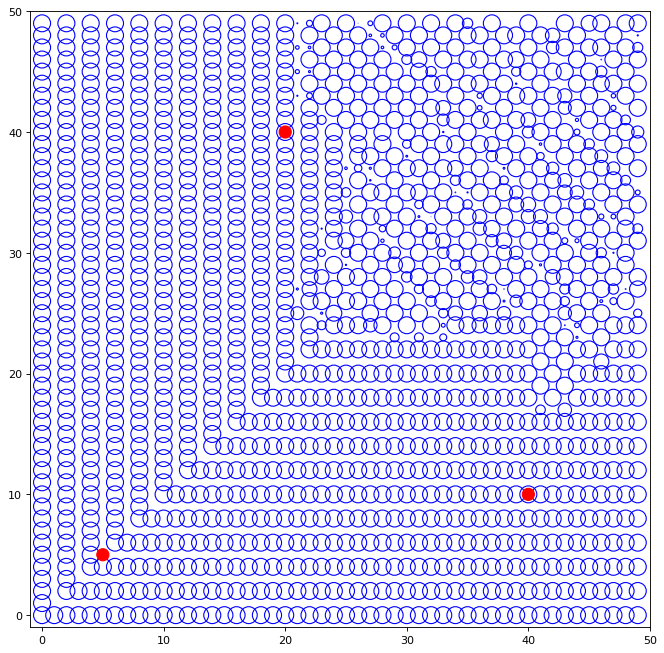
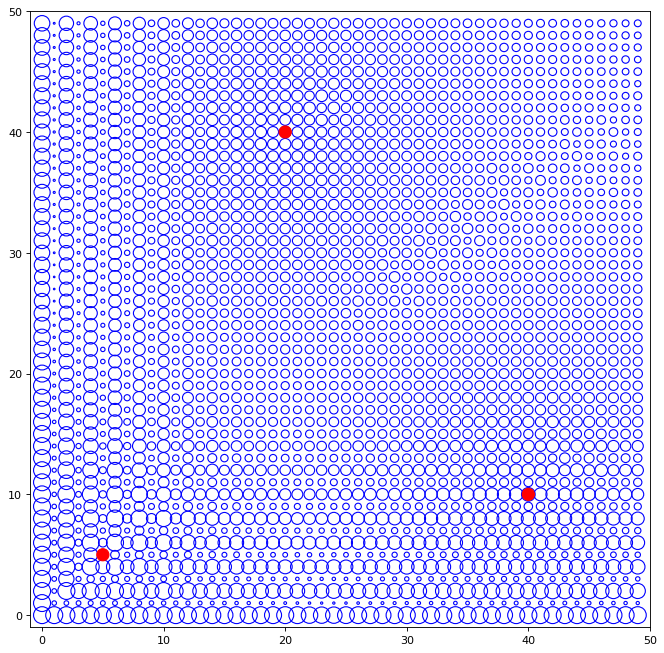
save

diff --git a/run.py b/run.py
@@ -3,9 +3,9 @@ import matplotlib
 import matplotlib.pyplot as plt
 import numpy as np
 import math
-w1 = 1               # weights for interaction
-w2 = 0              # weights for percipitation
-w3 = 0               # weights for wells
+w1 = 0.7               # weights for interaction
+w2 = 0.01              # weights for percipitation
+w3 = 0.4             # weights for wells
 
 A = 0.5
 u = 60
